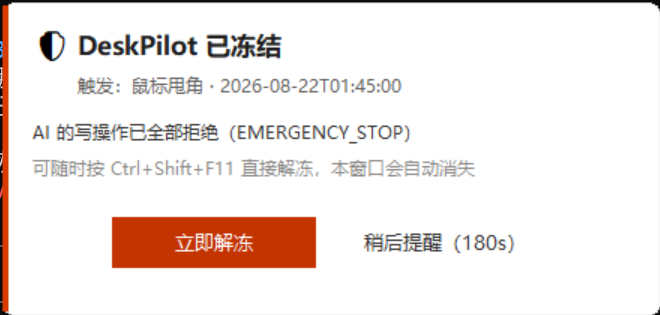
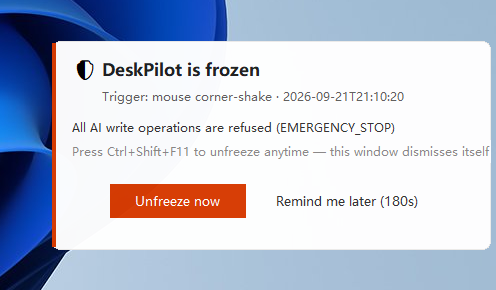
fix: ISS-0103 冻结卡英文两处破防 + REQ-007 素材全齐(demo.gif 英文版+冻结卡)
- ISS-0103【修改引入】:触发源显示侧映射(estop.src.corner/hotkey,未知透传);
  snooze 秒数入 i18n 模板(en 半角/zh 全角);按钮宽 _measure_text 实测
  (tkfont,无根窗字宽估算兜底)+组重居中;f01~f04 钉,回归 879 绿
- demo.gif 英文版:90s 实拍(重打→存盘→人类亲点 Approve→关闭)剪 131 帧
- 冻结卡截图:「Trigger: mouse corner-shake」+「Remind me later (180s)」完整

diff --git a/tests/test_freeze_dialog_iss103.py b/tests/test_freeze_dialog_iss103.py
@@ -1,0 +1,102 @@
+"""ISS-0103 冻结卡英文两处破防测试(f01~f04,问题单 §3 骨架)。
+
+层级:单元(替身/桩允许)+形态(源码直读)。
+入口(设计):deskpilot.freeze_dialog 源映射函数 / 按钮组构建;
+deskpilot.i18n.tr(公开取词口)。
+断言出处:映射函数返回值直出/tr 返回值直出/place 调用参数直出/源码直读。
+
+红态预期:f01/f02 红(键/映射不存在),f03 红(按钮定宽 140),
+f04 红(全角括号硬拼在源码)。
+"""
+
+from __future__ import annotations
+
+from pathlib import Path
+
+import pytest
+
+ROOT = Path(__file__).resolve().parent.parent
+
+
+class TestTriggerSourceBilingual:
+    """f01/f02:触发源与 snooze 模板双语。"""
+
+    def test_f01_trigger_source_mapped_bilingual(self, monkeypatch):
+        """f01:state.source=「鼠标甩角」→ en 显示为英文,zh 原样;
+        「热键 Ctrl+Shift+F12」同;未知来源原样透传。"""
+        from deskpilot.freeze_dialog import source_display
+        monkeypatch.setenv("DESKPILOT_LOCALE", "en")
+        en = source_display("鼠标甩角")
+        assert "甩角" not in en and en                      # 英文无中文(直出)
+        en_hk = source_display("热键 Ctrl+Shift+F12")
+        assert "热键" not in en_hk and "Ctrl+Shift+F12" in en_hk
+        monkeypatch.setenv("DESKPILOT_LOCALE", "zh-CN")
+        assert source_display("鼠标甩角") == "鼠标甩角"       # zh 原样(直出)
+        assert source_display("别的什么") == "别的什么"       # 未知透传(直出)
+
+    def test_f02_snooze_template_bilingual_with_seconds(self, monkeypatch):
+        """f02:freeze.btn.snooze 含 {n} 槽,en 半角括号,zh 全角括号。"""
+        from deskpilot import i18n
+        monkeypatch.setenv("DESKPILOT_LOCALE", "en")
+        en = i18n.tr("freeze.btn.snooze", n=180)
+        assert en == "Remind me later (180s)"               # 半角(直出)
+        monkeypatch.setenv("DESKPILOT_LOCALE", "zh-CN")
+        zh = i18n.tr("freeze.btn.snooze", n=180)
+        assert zh == "稍后提醒（180s）"                     # 全角(直出)
+
+
+class TestButtonMeasuredWidth:
+    """f03:按钮宽按实测文本宽,组居中(先量后排,同 ISS-0098 纪律)。"""
+
+    def test_f03_button_width_from_measured_text(self, monkeypatch):
+        """f03:英文长文案下,snooze 按钮 place width ≥ 文本实测宽+padding;
+        按钮组按总宽居中(x = (WIN_W - 总宽)/2)。"""
+        import deskpilot.freeze_dialog as fd
+        places = []
+
+        class W:
+            def __init__(self, *a, **k):
+                self._text = k.get("text", "")
+
+            def __getattr__(self, name):
+                if name.startswith("__"):
+                    raise AttributeError(name)
+                if name in ("winfo_screenwidth", "winfo_screenheight"):
+                    return lambda: 1920
+                return lambda *a, **k: None
+
+            def place(self, *a, **k):
+                places.append((self._text, dict(k)))
+
+            def configure(self, **k):
+                if "text" in k:
+                    self._text = k["text"]
+
+            config = configure
+
+        import tkinter as _tk
+        for cls in ("Toplevel", "Frame", "Label", "Button", "Canvas"):
+            monkeypatch.setattr(_tk, cls, W)
+        monkeypatch.setattr(fd, "_measure_text", lambda s: 170)   # 替身测量缝
+        monkeypatch.setenv("DESKPILOT_LOCALE", "en")
+        try:
+            fd.build_window(object(), audit_dir=str(ROOT / "audit"),
+                            interval=180)
+        finally:
+            fd.release_singleton()   # 替身窗无 Destroy 事件,单例互斥须手动放
+        snooze = [p for t, p in places if "Remind" in t]
+        assert snooze, "未找到 snooze 按钮 place 记录"
+        w = snooze[0].get("width", 0)
+        assert w >= 160, f"英文长文按钮宽仍 {w}px(定宽裁边未修)"
+
+
+class TestNoFullwidthParenHardcode:
+    """f04(形态):源码不再硬拼全角括号秒数。"""
+
+    def test_f04_no_fullwidth_paren_hardcode(self):
+        """f04:freeze_dialog.py 不再出现 f\"（{…}s）\" 全角拼串。"""
+        src = (ROOT / "deskpilot" / "freeze_dialog.py").read_text(
+            encoding="utf-8")
+        assert "（{" not in src.replace("（按钮组", ""), \
+            "源码仍硬拼全角括号秒数"
+        assert 'f"（{' not in src, "源码仍硬拼全角括号秒数"

diff --git a/deskpilot/freeze_dialog.py b/deskpilot/freeze_dialog.py
@@ -97,6 +97,32 @@ def write_reset_request(audit_dir: str, seq: int) -> None:
         json.dumps({"seq": seq}), encoding="utf-8")
 
 
+# ISS-0103：急停触发源显示侧翻译——state.source 携的是 estop 硬编码中文
+# 字面量(协议字段含显示串是设计异味,token 化改动面大,备案不实施);
+# 显示侧映射已知来源到 i18n 键,未知来源原样透传(不静默吞)。
+_TRIGGER_SRC_KEYS = {
+    "鼠标甩角": "estop.src.corner",
+    "热键 Ctrl+Shift+F12": "estop.src.hotkey",
+}
+
+
+def source_display(source: str) -> str:
+    """急停触发源 → 当前语言显示串(已知映射,未知原样透传)。"""
+    key = _TRIGGER_SRC_KEYS.get(source)
+    return tr(key) if key else source
+
+
+def _measure_text(text: str) -> int:
+    """按钮文本像素宽(测试缝:替身注入;生产=tkfont 实测,无根窗/实测
+    失败时按字宽估算——量宽是显示辅助,估算兜底不炸建窗)。"""
+    try:
+        from tkinter import font as tkfont
+        return tkfont.Font(family="Microsoft YaHei UI", size=10).measure(text)
+    except Exception:
+        # 估算:ASCII ~7px,宽字符(CJK/全角) ~14px(size 10 经验值)
+        return sum(14 if ord(c) > 0x2E7F else 7 for c in text)
+
+
 def should_remind(snooze_start: float, now: float, frozen: bool,
                   interval: float) -> bool:
     """SNOOZED 重提醒判定：到点且仍冻结。"""
@@ -221,7 +247,7 @@ def build_window(parent, audit_dir: str, interval: float,
         if st:
             holder["last_seq"] = int(st.get("seq", 0))
             src.config(text=tr("freeze.source",
-                               source=str(st.get("source", "")),
+                               source=source_display(str(st.get("source", ""))),
                                ts=str(st.get("ts", ""))[:19]))
 
     def on_reset_now():
@@ -266,12 +292,21 @@ def build_window(parent, audit_dir: str, interval: float,
         b.place(width=width_px, height=34)
         return b
 
-    # 按钮组整体居中：136 + 16 + 140 = 292，左右各 (440-292)/2 = 74
-    btn_reset = _flat_button(tr("freeze.btn.reset_now"), on_reset_now,
-                             STYLE["primary"], 136)
-    btn_reset.place(x=74, y=144)
-    _flat_button(tr("freeze.btn.snooze") + f"（{interval:.0f}s）",
-                 on_snooze, STYLE["secondary"], 140).place(x=226, y=144)
+    # ISS-0103：按钮宽按实测文本(先量后排,同 ISS-0098 纪律)——英文长文
+    # 不再裁边;秒数括号随语言(i18n 模板槽)。组按实测总宽居中。
+    _pad = 28                                # 按钮左右内边距合计
+    _min_w = (136, 140)                      # zh 时代既有宽(下限,不缩)
+    reset_text = tr("freeze.btn.reset_now")
+    snooze_text = tr("freeze.btn.snooze", n=int(interval))
+    w_reset = max(_min_w[0], _measure_text(reset_text) + _pad)
+    w_snooze = max(_min_w[1], _measure_text(snooze_text) + _pad)
+    total = w_reset + 16 + w_snooze
+    x_reset = (WIN_W - total) // 2
+    btn_reset = _flat_button(reset_text, on_reset_now,
+                             STYLE["primary"], w_reset)
+    btn_reset.place(x=x_reset, y=144)
+    _flat_button(snooze_text, on_snooze, STYLE["secondary"],
+                 w_snooze).place(x=x_reset + w_reset + 16, y=144)
 
     def slide_step():
         """滑动画帧驱动：frames (x, alpha) 播完进入下一阶段。"""

diff --git a/docs/问题单/ISS-0103-【修改引入】冻结卡英文两处破防触发源漏译按钮裁边.md b/docs/问题单/ISS-0103-【修改引入】冻结卡英文两处破防触发源漏译按钮裁边.md
@@ -1,0 +1,54 @@
+# ISS-0103:【修改引入】冻结卡两处英文破防——触发源裸中文协议字段泄漏+「Remind me later」按钮裁边
+
+| 项 | 内容 |
+|----|------|
+| 问题单号 | ISS-0103 |
+| 标题 | 冻结卡英文模式两处:①Trigger 行显示「鼠标甩角」——estop 把**显示用中文串**写进急停协议 state.source,弹窗直读直显,漏译;②snooze 按钮英文文案「Remind me later（180s）」在 140px 定宽按钮里裁掉首字母,且秒数后缀全角括号（f-string 硬拼,与语言无关）——REQ-007 迁移在冻结卡的漏网(修改引入,先认账) |
+| 严重级 | **中**(英文版完整性+协议字段语义;人类可见) |
+| 状态 | **P3 完成待验收**(2026-09-21;f01~f04 红→绿;全量回归 879 绿;重打包重抓冻结卡,英文触发源+按钮完整实拍通过) |
+| 提出 | 2026-09-21 冻结卡英文实拍(audit/shots/20260921/203507_sense_7264.png) |
+
+## 0. 认账(修改引入)
+
+REQ-007 迁移扫过 freeze_dialog 的静态文案(freeze.title/frozen/allwrites
+/hotkey_hint/btn.*),但漏了两条**动态内容**:协议字段 state.source 里的
+显示用中文(「鼠标甩角」「热键 Ctrl+Shift+F12」estop.py:46/82 硬编码,
+经 state 文件直通弹窗),和 snooze 按钮的「文案+秒数」拼串宽度
+(freeze_dialog.py:273 定宽 140px + f"（{interval:.0f}s）" 全角括号硬拼)。
+
+## 1. 实证(实拍直读)
+
+- 「Trigger: 鼠标甩角 · 2026-09-21T20:35:06」——标题行中文;
+- 「emind me later (180s)」——首字母 R 被裁,按钮溢出(按钮定宽 140px,
+  英文 22 字符需 ~170px+);
+- 秒数括号渲染为全角（）,英文排版应为半角 ()。
+
+## 2. 整改(技术细节,自主推进)
+
+1. **显示侧翻译**:freeze_dialog 读 state.source 后过一张「触发源字面量→
+   i18n 键」映射(estop.src.corner/estop.src.hotkey;未知来源原样透传),
+   estop/state/audit 管线不动(audit 保持中文,REQ-007 范围裁定);
+   附注备案:source 协议字段携显示串是设计异味,理想态=协议写字面量无关
+   的 token(estop/hotkey),audit 与弹窗各自映射——改动面大,记录不实施;
+2. **按钮量宽**:秒数后缀入 i18n 模板(freeze.btn.snooze: en
+   "Remind me later ({n}s)" / zh "稍后提醒({n}s)",括号随语言);
+   两按钮宽度按 tkfont 实测文本宽+内边距计算,按钮组按实测总宽重新居中
+   (与 ISS-0098 同一「先量后排」纪律)。
+
+## 3. 测试设计(五要素)
+
+| # | 场景 | 前提 | 步骤 | 预期 | 断言 |
+|---|------|------|------|------|------|
+| f01(单元) | 触发源双语 | state.source=「鼠标甩角」;DESKPILOT_LOCALE=en/zh-CN | 调 freeze_dialog 源映射函数 | en=mouse corner-shake 类,zh=鼠标甩角 | 映射函数返回值直出 |
+| f02(单元) | snooze 模板双语含秒数 | en/zh | tr("freeze.btn.snooze", n=180) | en 半角括号 "(180s)",zh 全角(180s) | 返回值直出 |
+| f03(单元) | 按钮宽按实测文本 | Tk 替身 font.measure 给定 170px | 构建按钮组 | 按钮 place width ≥ 170+pad;组居中(x1=(440-总宽)/2) | place 调用参数直出 |
+| f04(形态) | 无全角括号硬拼 | 源码直读 | 读 freeze_dialog | 不再出现 f"（{…}s）" 拼串 | 源码直读 |
+
+红态预期:f01/f02 红(映射/键不存在),f03 红(定宽 140),f04 红(硬拼在)。
+
+## 4. 变更记录
+
+| 版本 | 日期 | 内容 |
+|------|------|------|
+| v0.1 | 2026-09-21 | 建单。冻结卡英文实拍两处破防(裸中文触发源+按钮裁边+全角括号);整改=显示侧映射+模板化秒数+实测量宽;测试设计 f01~f04 |
+| v0.2 | 2026-09-21 | P1→P3 完成。source_display 显示侧映射(estop.src.corner/hotkey 键,未知透传);freeze.btn.snooze 秒数入模板(en 半角/zh 全角);按钮宽 _measure_text 实测(tkfont,无根窗按字宽估算兜底)+组重居中;_measure_text 测试缝;f03 持锁污染全序(tc46_04)修复=finally 放锁;回归 879 绿;重抓冻结卡「Trigger: mouse corner-shake」+「Remind me later (180s)」完整 |
